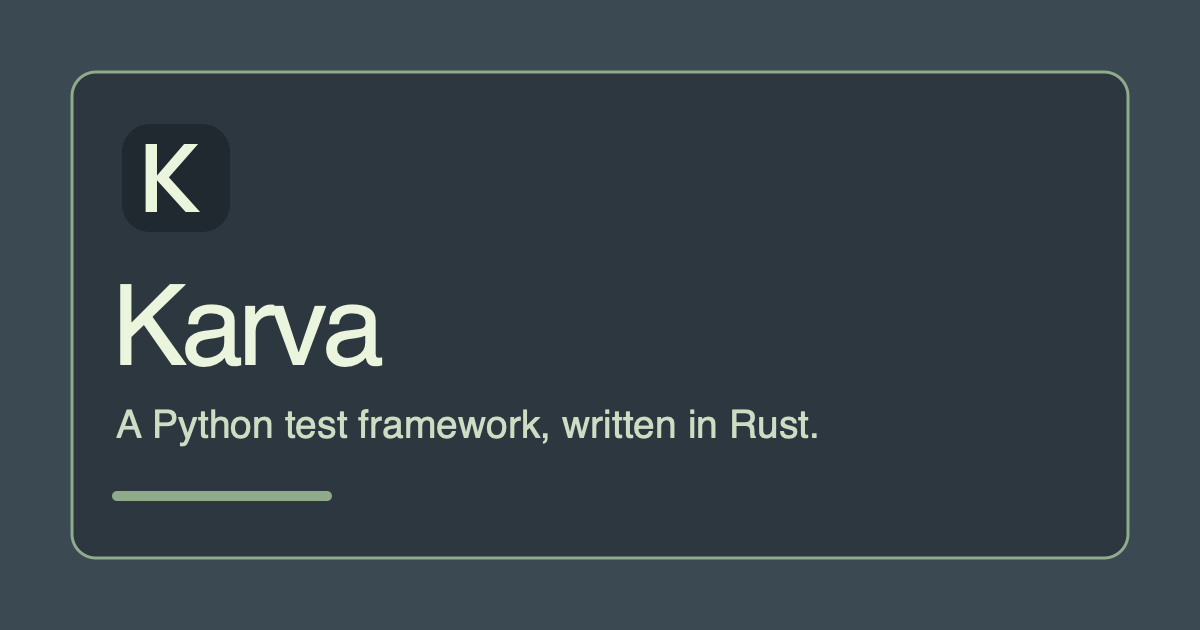
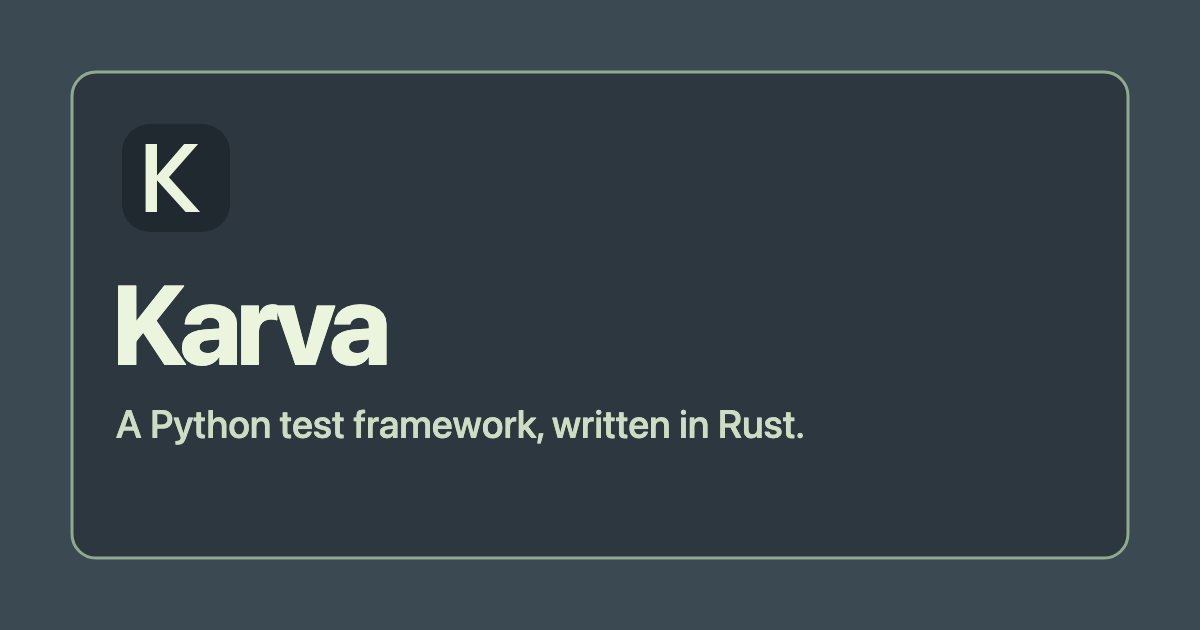
docs: refine site metadata

Changed region(s): [[0.0925, 0.6333, 0.6783, 0.7238], [0.0925, 0.4524, 0.3392, 0.6032], [0.0925, 0.754, 0.2775, 0.8143]]

diff --git a/overrides/main.html b/overrides/main.html
@@ -6,10 +6,10 @@
   <meta property="og:type" content="website">
   <meta property="og:site_name" content="Karva">
   <meta property="og:title" content="Karva documentation">
-  <meta property="og:description" content="Fast, focused Python testing with a Rust engine.">
+  <meta property="og:description" content="A Python test framework, written in Rust.">
   <meta property="og:image" content="https://matthewmckee4.github.io/karva/assets/social-card.png">
   <meta name="twitter:card" content="summary_large_image">
   <meta name="twitter:title" content="Karva documentation">
-  <meta name="twitter:description" content="Fast, focused Python testing with a Rust engine.">
+  <meta name="twitter:description" content="A Python test framework, written in Rust.">
   <meta name="twitter:image" content="https://matthewmckee4.github.io/karva/assets/social-card.png">
 {% endblock %}

diff --git a/docs/stylesheets/extra.css b/docs/stylesheets/extra.css
@@ -164,14 +164,6 @@
   max-width: none;
 }
 
-.md-main:has(.home-hero) {
-  background-image: radial-gradient(
-    circle at 82% 12%,
-    color-mix(in srgb, var(--karva-sage) 16%, transparent),
-    transparent 32rem
-  );
-}
-
 .home-hero {
   display: grid;
   grid-template-columns: minmax(0, 1.25fr) minmax(18rem, 0.75fr);

diff --git a/docs/index.md b/docs/index.md
@@ -1,6 +1,6 @@
 ---
 title: Karva
-description: Fast, focused Python testing with a Rust engine.
+description: A Python test framework, written in Rust.
 ---
 
 <div class="home-hero">
